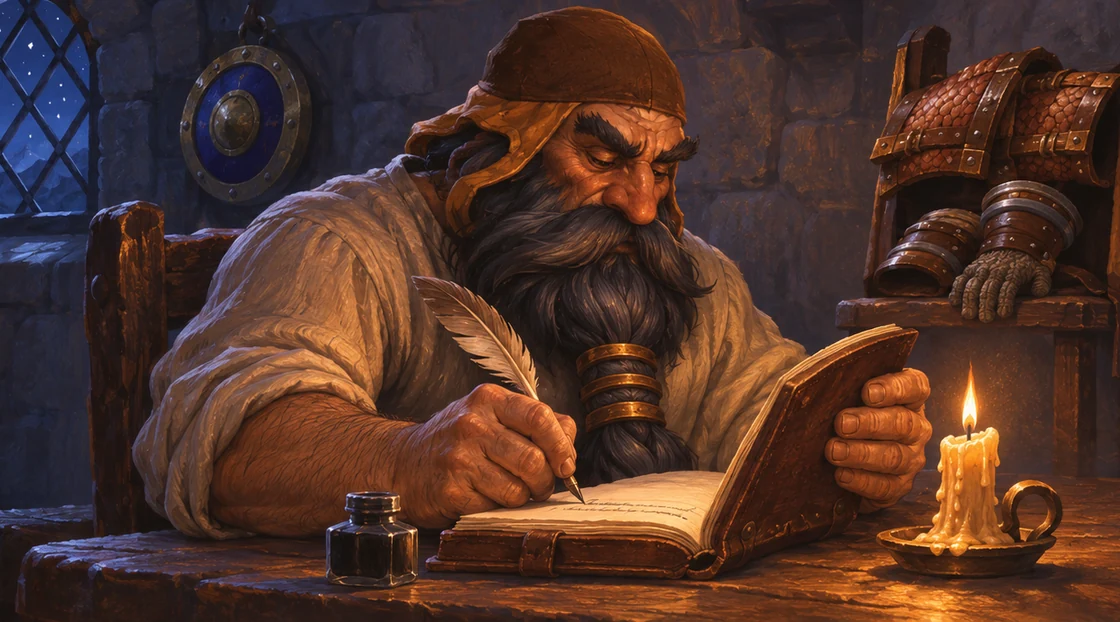
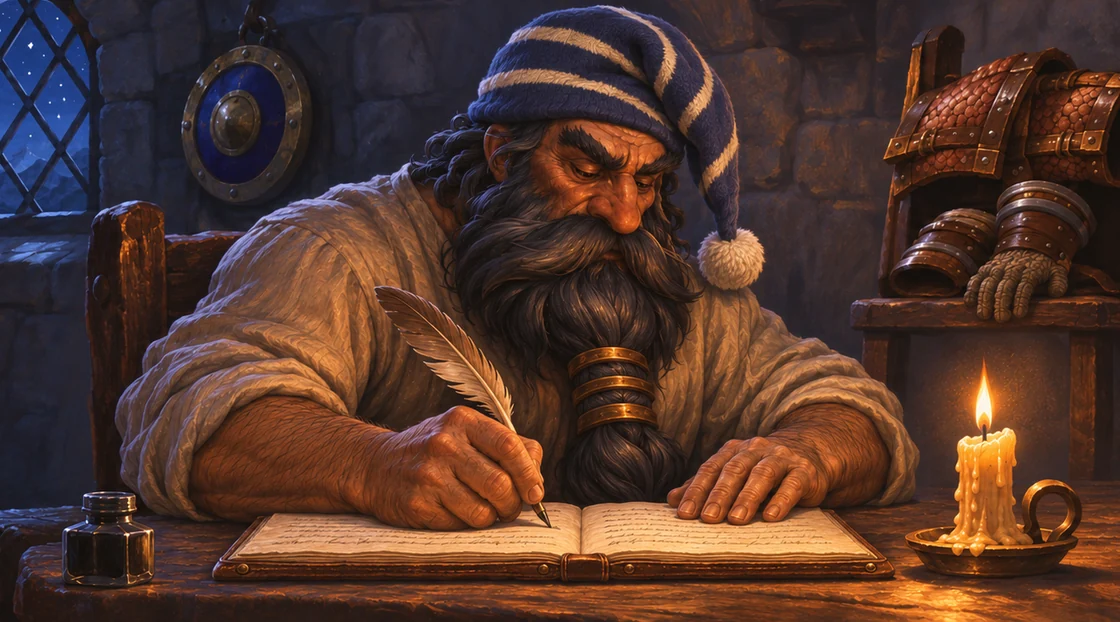
Endereza el diario y añade el gorro de dormir de Ferrogard

diff --git a/app/illustrated-chronicles.css b/app/illustrated-chronicles.css
@@ -44,14 +44,12 @@
 .ferrogard-diary img {
   display: block;
   width: 100%;
-  height: clamp(150px, 18vw, 244px);
-  object-fit: cover;
-  object-position: 69% 58%;
+  height: auto;
   mask-image: linear-gradient(90deg, transparent, black 20%);
 }
 @media (max-width: 600px) {
   .ferrogard-diary > a { grid-template-columns: 1fr; }
-  .ferrogard-diary img { grid-row: 1; height: auto; mask-image: none; }
+  .ferrogard-diary img { grid-row: 1; mask-image: none; }
 }
 .chronicle-brief {
   display: grid;
